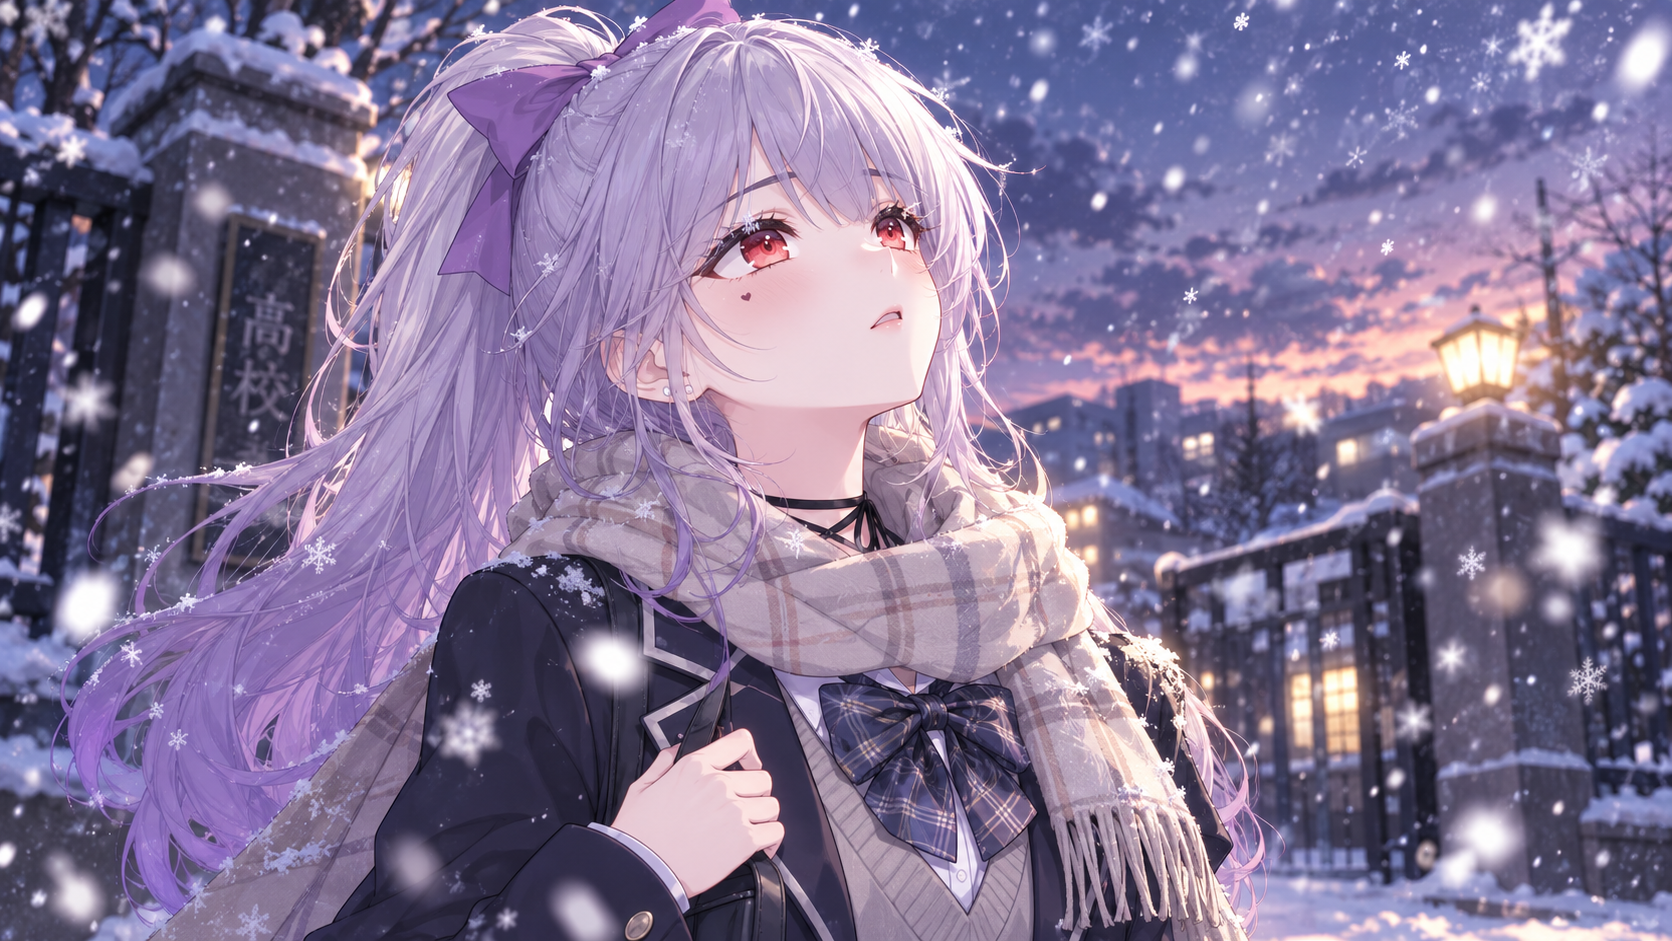
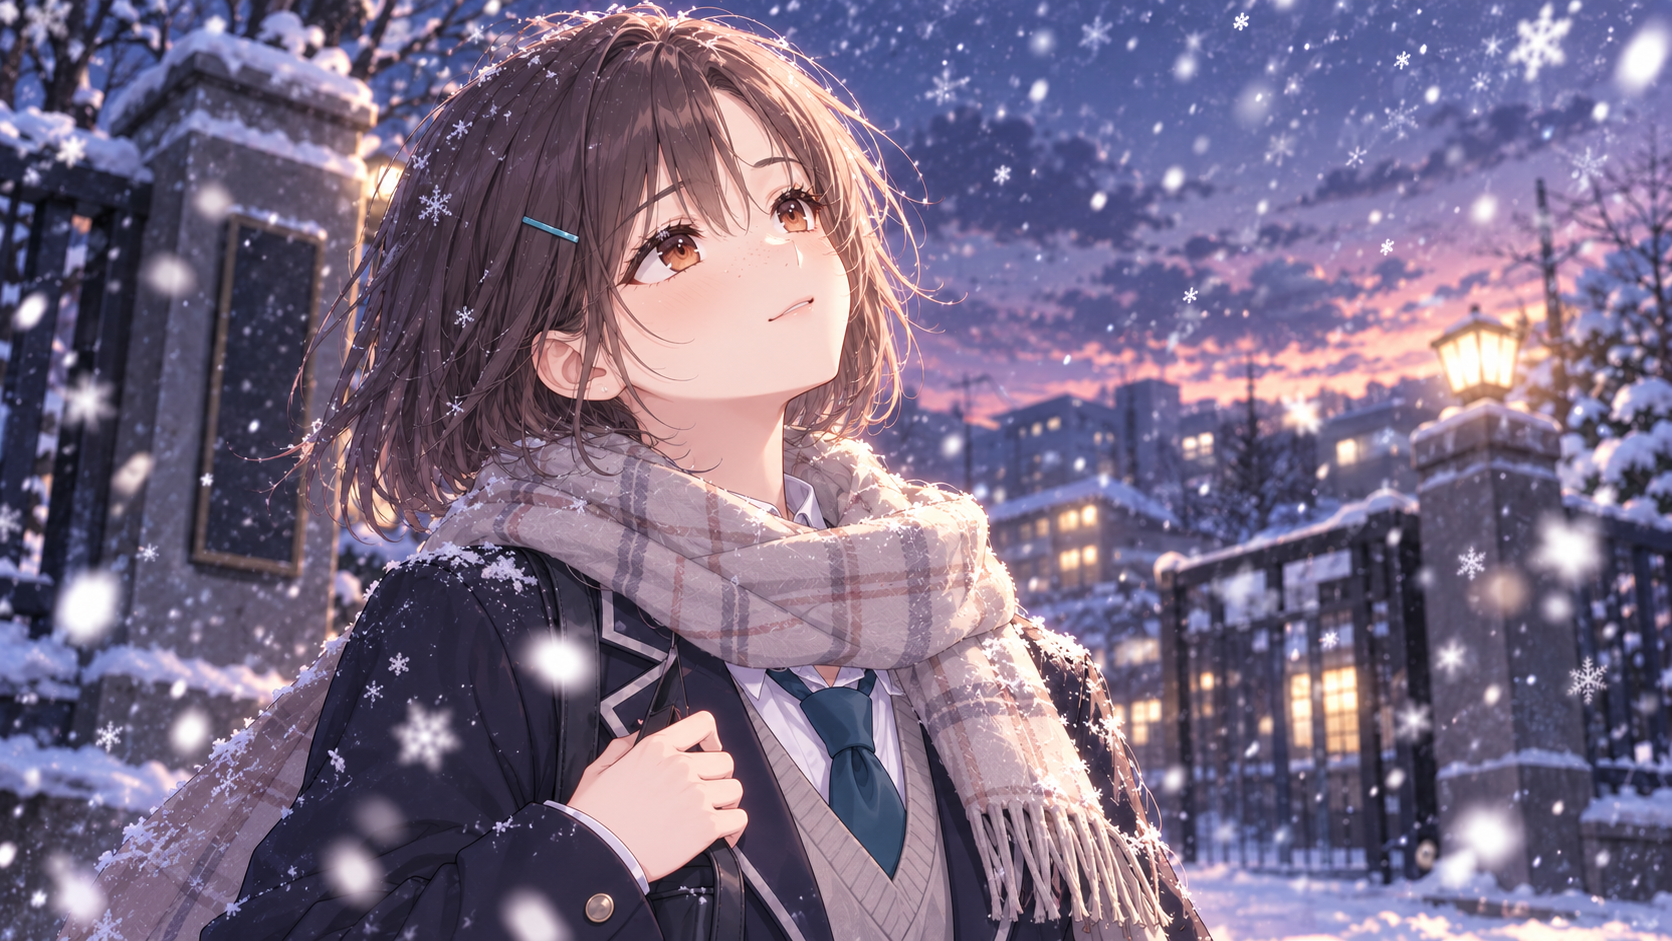
CH08 CG 원본 구도와 자세 반영

diff --git a/docs/illustration-replacement-prompts.md b/docs/illustration-replacement-prompts.md
@@ -238,7 +238,7 @@ CG는 공통 CG 블록과 파일별 장면 프롬프트를 이어 붙인다. 무
 | [cg-05.png](../assets/cg/cg-05.png) · CH05 체육대회 | 원본의 구도와 자세를 유지한다. 화면 왼쪽 그늘진 스탠드에 온이유가 무릎을 세우고 웅크리듯 앉아, 무릎 위에 비스듬히 기댄 스케치북 윗부분에 한 손을 걸친다. 상체와 고개를 살짝 숙이고 시선은 화면 쪽으로 둔다. 오른쪽에는 햇빛이 비치는 운동장과 흐릿한 이어달리기·응원 인파를 넓게 배치한다. 새 캐릭터 기준 외형과 체육복을 적용하고, 스탠드의 글자·로고는 넣지 않는다. |
 | [cg-06.png](../assets/cg/cg-06.png) · CH06 가을 소풍 | 원본의 구도와 자세를 유지한다. 화면 왼쪽 전경 벤치에 온이유가 옆으로 앉아 한쪽 무릎을 세우고, 무릎 위에 비스듬히 놓인 스케치북에 연필로 단풍을 그린다. 상체를 살짝 앞으로 기울이고 시선은 그림에 둔다. 가방은 인물 왼쪽 벤치에 두며, 오른쪽 절반에는 낙엽 덮인 산책길과 난간이 붉고 노란 단풍나무 사이로 멀어지게 배치한다. 새 캐릭터 기준 외형과 교복을 적용하고 글자·로고는 넣지 않는다. |
 | [cg-07.png](../assets/cg/cg-07.png) · CH07 기말고사 | 원본의 구도와 자세를 유지한다. 긴 책상 앞 중앙 왼쪽에 앉은 온이유가 몸을 살짝 숙이고, 책상에 댄 한쪽 팔의 손으로 뺨을 받친 채 다른 손으로 펼친 문제집에 연필을 움직인다. 왼쪽 아래에는 쌓인 책, 오른쪽 아래에는 펼친 큰 교재를 둔다. 왼쪽 배경은 흐린 도서관 서가와 따뜻한 스탠드 조명, 오른쪽은 눈 덮인 나뭇가지가 보이는 큰 창으로 구성한다. 새 캐릭터 외형과 겨울 교복을 적용하고 안경·읽을 수 있는 글자·로고는 넣지 않는다. |
-| [cg-08.png](../assets/cg/cg-08.png) · CH08 첫눈 | 학교 앞 겨울 저녁, 코트와 목도리를 착용한 온이유가 처음 내리는 눈을 올려다보며 조용히 웃는다. 가로등과 먼 건물 조명이 눈발에 부드럽게 번진다. |
+| [cg-08.png](../assets/cg/cg-08.png) · CH08 첫눈 | 원본의 구도와 자세를 유지한다. 왼쪽 전경에 허리 위까지 보이는 온이유를 크게 배치하고, 몸은 오른쪽으로 살짝 틀며 한 손으로 가슴 앞 가방끈을 잡는다. 고개와 시선은 위쪽 오른편의 첫눈을 향한다. 왼쪽 끝에는 학교 입구와 글자 없는 표지판, 오른쪽 3분의 1에는 따뜻한 가로등을 두고 눈 덮인 길과 건물, 분홍빛 겨울 저녁 하늘을 배경으로 한다. 새 캐릭터 외형에 짙은 남색 코트와 연한 베이지 체크 목도리를 입히고 글자·로고는 넣지 않는다. |
 | [cg-09.png](../assets/cg/cg-09.png) · 1학년→2학년 전환 | 새 학년 첫날의 벚꽃 핀 교문, 온이유가 학교 안쪽으로 걸어가다 어깨 너머로 한 번 돌아본다. 넓은 학교와 오가는 학생들을 배경에 두고 다음 계절로 이어지는 전환 장면으로 구성한다. |
 | [cg-10.png](../assets/cg/cg-10.png) · CH09 새로운 반 | 늦은 오후 학교 복도나 교정 길, 새 반에서 적응을 시작한 온이유가 노을빛을 받으며 잠시 뒤돌아본다. 익숙해지는 중인 표정과 새 친구들의 흐린 실루엣으로 변화의 기분을 전한다. |
 | [cg-11.png](../assets/cg/cg-11.png) · CH10 동아리 활동 | 방과 후 미술 동아리실, 온이유가 작업대 앞에 앉아 붓으로 작은 그림을 마무리한다. 주변의 물감과 종이, 캔버스가 보이고 스탠드 조명이 손과 그림에 모인다. |
@@ -277,4 +277,4 @@ CG는 공통 CG 블록과 파일별 장면 프롬프트를 이어 붙인다. 무
 - 이미지 모델이 만든 문자·로고·워터마크는 제거하고, 필요한 문구는 별도로 편집한다.
 - 인물 외형 참조에는 승인된 공통 캐릭터 기준 이미지만 사용한다. 사용자가 특정 의상 참고 이미지를 제공한 경우에는 지정된 의상 형태만 참고하고 얼굴·머리·포즈·배경은 복사하지 않는다. 결과가 새 공통 캐릭터 기준과 다르면 해당 파일을 다시 생성한다.
 
-이 문서는 교체 대상의 프롬프트와 파일 대응표다. S·W·G·A·C1·P1·C13·P13·C16·P16·C24·P24·GR 스탠딩 세트와 타이틀 표지, cg-01~cg-07의 생성 및 파일 교체를 완료했으며, 나머지 CG는 한 장씩 진행한다.
+이 문서는 교체 대상의 프롬프트와 파일 대응표다. S·W·G·A·C1·P1·C13·P13·C16·P16·C24·P24·GR 스탠딩 세트와 타이틀 표지, cg-01~cg-08의 생성 및 파일 교체를 완료했으며, 나머지 CG는 한 장씩 진행한다.
